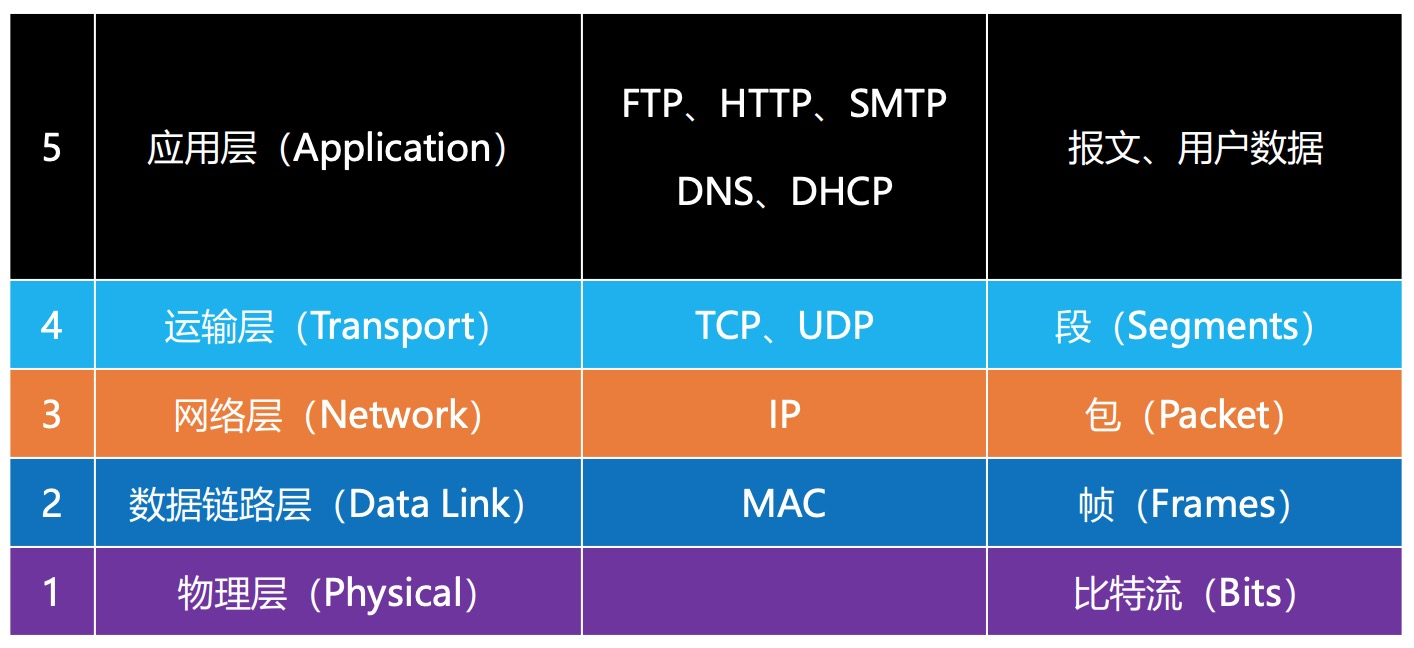
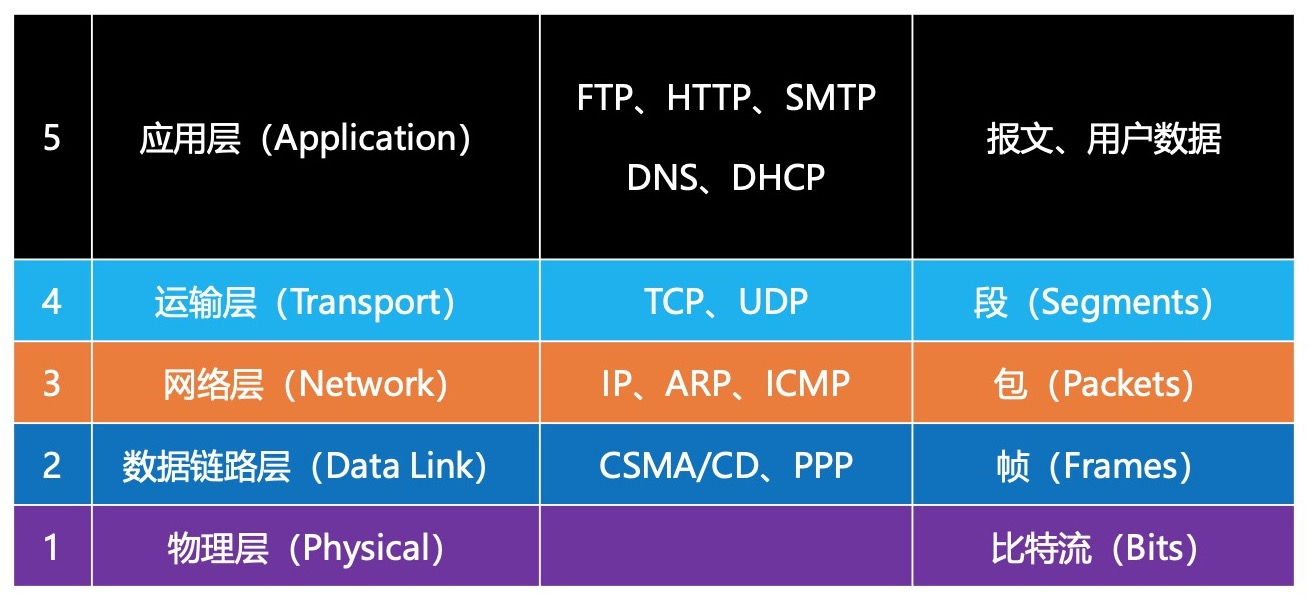
添加网络文档

diff --git a/network/06-数据链路层.md b/network/06-数据链路层.md
@@ -1,1 +1,42 @@
 # 数据链路层
+链路: 从1个节点到相邻节点的一段物理线路（有线或无线）,中间没有其他交换节点。例如下面这张图,
+![](../network/imgs/network_36.jpg)
+◼ 数据链路：在一条链路上传输数据时，需要有对应的通信协议来控制数据的传输
+不同类型的数据链路，所用的通信协议可能是不同的
+✓ 广播信道：CSMA/CD协议（比如同轴电缆、集线器等组成的网络）
+✓ 点对点信道：PPP协议（比如2个路由器之间的信道）
+◼ 数据链路层的3个基本问题
+封装成帧
+透明传输
+差错检验
+
+## 封装成帧
+将网络层传过来的数据包封装成帧，最大传输单元MTU，1500字节。
+
+## 透明传输
+在传输链路上有多个帧数据，只能知道每个帧具体的大小，这个时候就要有帧开始符和帧结束符，为了预防数据里也有帧开始符和帧结束符，只要有，就在数据前使用ESC进行填充。
+
+>以太网帧V2的版本，如果使用曼彻斯特编码，只要发现没有信号跳变，就认为帧结束
+
+## 差错检验
+为什么要有差错检验，在信道传输的过程中，如果受到干扰可能会造成失真，差错检验防止拿到失真的数据。
+
+差错检验的方法，使用帧的数据和数据链路层首部计算出一个FCS，网卡拿到数据之后，会再对数据进行计算，如果FCS一致，网卡会继续往上传，如果不一致，网卡会将这个数据丢弃
+
+## CSMA/CD 协议
+
+
+## 以太网帧
+
+
+## PPP 协议
+点对点信道使用的是PPP协议,意思是这条线路一定是从A到B，点对点链路不需要源MAC地址和目标MAC地址
+
+PPP 帧
+
+## 网卡
+网卡接收到一个帧，首先会进行差错校验，如果校验通过则接收，否则丢弃。
+
+* `Wireshark`抓到的帧没有`FCS` ，因为它抓到的是差错校验通过的帧（帧尾的FCS会被硬件去掉）
+* `Wireshark`抓不到差错校验失败的帧, 校验失败的帧已经被网卡丢弃了
+![](../network/imgs/network_35.jpg)

diff --git a/network/05-物理层.md b/network/05-物理层.md
@@ -5,9 +5,31 @@
 
 ![](../network/imgs/network_10.jpg)
 
-## 请求过程
+## 网络请求过程
 发送网络请求时，发送方的内容经过层层包装，接收方收到消息之后再层层解开封装获取到真正的内容
 ![](../network/imgs/network_12.jpg)
 
 ## 网络分层
+每层使用到的协议和对数据叫法都不同,在应用层我们说数据是报文，到了运输层说数据是段，到了网络层是包，数据链路层是帧，物理层是比特流。这也是对每层的数据做了更为形象的叫法，和方便以后的数据维护和问题查找。
 ![](../network/imgs/network_11.jpg)
+
+## 物理层
+物理层定义了接口标准、线缆标准、传输速率、传输方式等,比如水晶头用什么材质、路由器的接口要多大 等等这些都是物理层定义的。
+
+## 数字信号、模拟信号
+电话线使用的是模拟信号,网线使用的是数字信号，光纤使用的是光信号。**网线是不能超过100米的，超过100米之后可能会造成信号丢失。**
+
+![](../network/imgs/network_33.jpg)
+
+## 局域网的通信模型
+很早之前发送数据时,先通过调制解调器将`数字信号`转换成`模拟信号`通过电话线进行传输，到达另一端后，通过调制解调器再转换成数字信号。
+
+之后使用光纤，会先通过光电转换器将`数字信号`转换成`光信号`，通过光纤进行传输，到达另一端后，通过光电转换器转换成数字信号。
+
+![](../network/imgs/network_34.jpg)
+
+## 信道
+* 信道: 信息传输的通道，一条传输介质上（比如网线）上可以有多条信道
+* 单工通信: 信号只能往一个方向传输，任何时候都不能改变信号的传输方向,比如无线电广播、有线电视广播
+* 半双工通信: 信号可以双向传输,但必须是交替进行，同一时间只能往一个方向传输, 比如对讲机
+* 全双工通信: 信号可以同时双向传输,比如手机（打电话，听说同时进行）

diff --git a/network/_sidebar.md b/network/_sidebar.md
@@ -4,4 +4,4 @@
 * [03-IP地址](network/03-IP地址.md)
 * [04-路由](network/04-路由.md)
 * [05-物理层](network/05-物理层.md)
-* [06-数据链路层](network/06-数据链路层.md)
+* [06-数据链路层(Data Link)](network/06-数据链路层.md)
